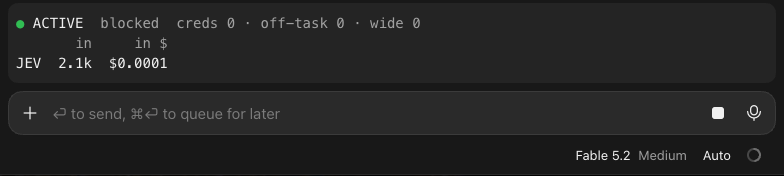
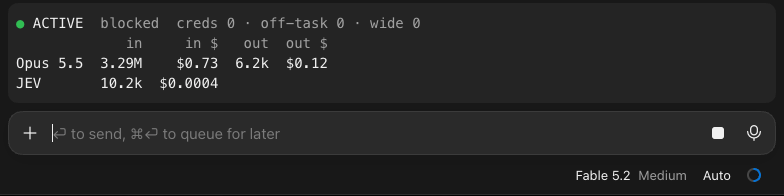
Retake the band screenshot with a Claude model row

diff --git a/README.md b/README.md
@@ -24,7 +24,11 @@ If the OpenRouter key is not set, the mod does none of these tasks. The band the
 
 ![The jev band above the Claude Code prompt in the desktop app](docs/band.png)
 
-This screenshot shows the band in the Claude Code desktop app. The session that developed this version of the mod is in the screenshot. The screenshot shows the session after a restart, during its first turn. The table shows only the JEV row, because the mod adds Claude tokens when a turn ends. After the first turn, the table also shows a row for each Claude model. Section 5 shows a full example.
+This screenshot shows the band in the Claude Code desktop app. The session that developed this version of the mod is in the screenshot. The screenshot shows the session after a restart and one completed turn.
+
+The table shows an `Opus 5.5` row, but the model picker shows `Fable 5.2`. This is correct. The mod sends the first turn of a session to Opus. The band shows the model that answered, not the model that you selected.
+
+Section 5 shows an example with more models.
 
 ## 3. Prerequisites
 
